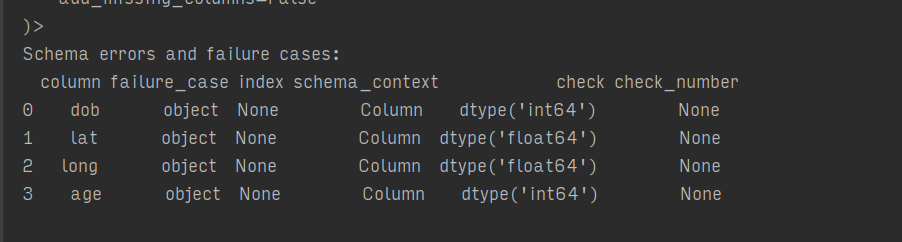
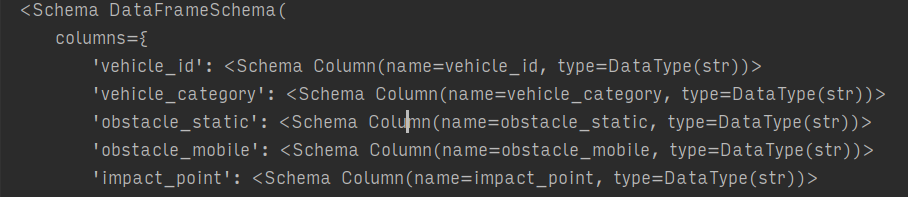
Update some stuff

diff --git a/pages/08_🎵_ZenML_Orchestration_Pipeline.py b/pages/08_🎵_ZenML_Orchestration_Pipeline.py
@@ -1,0 +1,75 @@
+import streamlit as st
+
+from src.utils import FIGURE_8, FIGURE_11, FIGURE_17, FIGURE_6, FIGURE_29, FIGURE_23
+
+st.set_page_config(
+    page_title="ZenML The Maestro",
+    page_icon="🖥🎵",
+    layout="wide"
+)
+st.write("# ZenML, The Maestro 🖥🎵")
+st.markdown("""
+ZenML was chosen as an MLOps orchestrator as it provided both a local and
+cloud orchestration. The ZenML pipeline consists of steps involved in setting up a
+an automatic Machine Learning Flow for the entire process of loading the data to
+training the ML Model (see run-zenml.py).This pipeline thus creates an entire _Machine Learning_ System and allowed me to focus on writing code rather than worry about the model training details.
+
+ZenML is pretty cool as it allows to build and orchestrate (run) and entire Machine Learning System. It divides the system into  multiple `@step`
+which could be built up together like a _Lego_ House via `@pipeline`. We can take a look at the architecture diagram for the ZenML Flow[^1] below.    
+
+[^1]: The Pipeline was cached so , only steps that change will be run again, This considerably saves time while training since training can go for about hrs depending on parameters and model.
+""")
+
+
+#https://discuss.streamlit.io/t/how-to-add-extra-lines-space/2220/5
+_, col, _ = st.columns([1, 10, 1])
+with col:
+    st.write("###")
+    st.image(FIGURE_11, caption="Figure: Orchestrator Pipeline", width =1200)
+    st.write("###")
+
+st.markdown("""
+We can break down the pipeline into smaller pieces as below
+
+#### Comon Pipeline Steps:
++ Data Loader : Load the `Input.parquet` data into the system
++ Data Validation : Validate the Input Data using [Pandera](https://pandera.readthedocs.io/en/stable/#) [^1] (see image below)
++ Data Drift Monitoring : Check whether the data is drifting [^2] (see image below)
++ Load DataSet : Version and Load Dataset to [CometML](https://www.comet.com/) (see image below)
++ Data Processor : Perform the necessary pre-processing steps and Data Cleaning 
+
+[^1]: Data Validation here is an overkill since the `RoadAccidentEnum` does validation but DS team wanted it so I put it in. Basically its unnecessary
+[^2]: Again , a "genius" since the data is not changing, but as was asked , as it was done.
+""")
+st.divider()
+left_col,mid_col,right_col = st.columns(3,border=True)
+with left_col:
+    st.write("##")
+    st.image(FIGURE_23, caption="Data Validation with Panders Scheme Validation")
+with right_col:
+    st.image(FIGURE_17, caption="Evidently Drift Monitoring")
+
+with mid_col:
+    st.image(FIGURE_29, caption="Load & Version DataSet in CometML")
+
+st.markdown("""
+#### Forecast Pipeline:
++ Time Series Creator : Create a time series from the data and separating the required cols.
++ Forecast Model : Train an __ARIMA__ model to forecast the data
++ Plot Model : Validate the trained model has an acceptable _MAPE_ Score and plot the predicted vs actual data
+""")
+
+
+st.markdown("""
+#### Severity Classifier:
++ Train Test Split : Split the Data into Training and Testing sets
++ Severity Classifier Model : Train an __GradientBoostingClassifier__ model to predict the severity of the accident 
+""")
+st.markdown("""
+#### Common Loading Steps:
++ Model Monitoring Step : Monitor the Forecast[^1] and Severity[^2] models for metrics drift.
++ Log Model: Version and Upload the UD Models to the CometML Registry.
+
+[^1]: Forecast aka Time Series, Future Accident Predictor . I will interchangebly use these names but they meann the same thing
+[^2]: Severity, GBC, Classifier, Severity Classifier . Both models together are UD Models
+""")

diff --git a/src/utils.py b/src/utils.py
@@ -96,7 +96,7 @@ FIGURE_25 = os.path.join(FIGURE_PATH, 'fig25.png')
 FIGURE_26 = os.path.join(FIGURE_PATH, 'fig26.png')
 FIGURE_27 = os.path.join(FIGURE_PATH, 'fig27.png')
 FIGURE_28 = os.path.join(FIGURE_PATH, 'fig28.png')
-
+FIGURE_29 = os.path.join(FIGURE_PATH, 'fig29.png')
 
 
 
